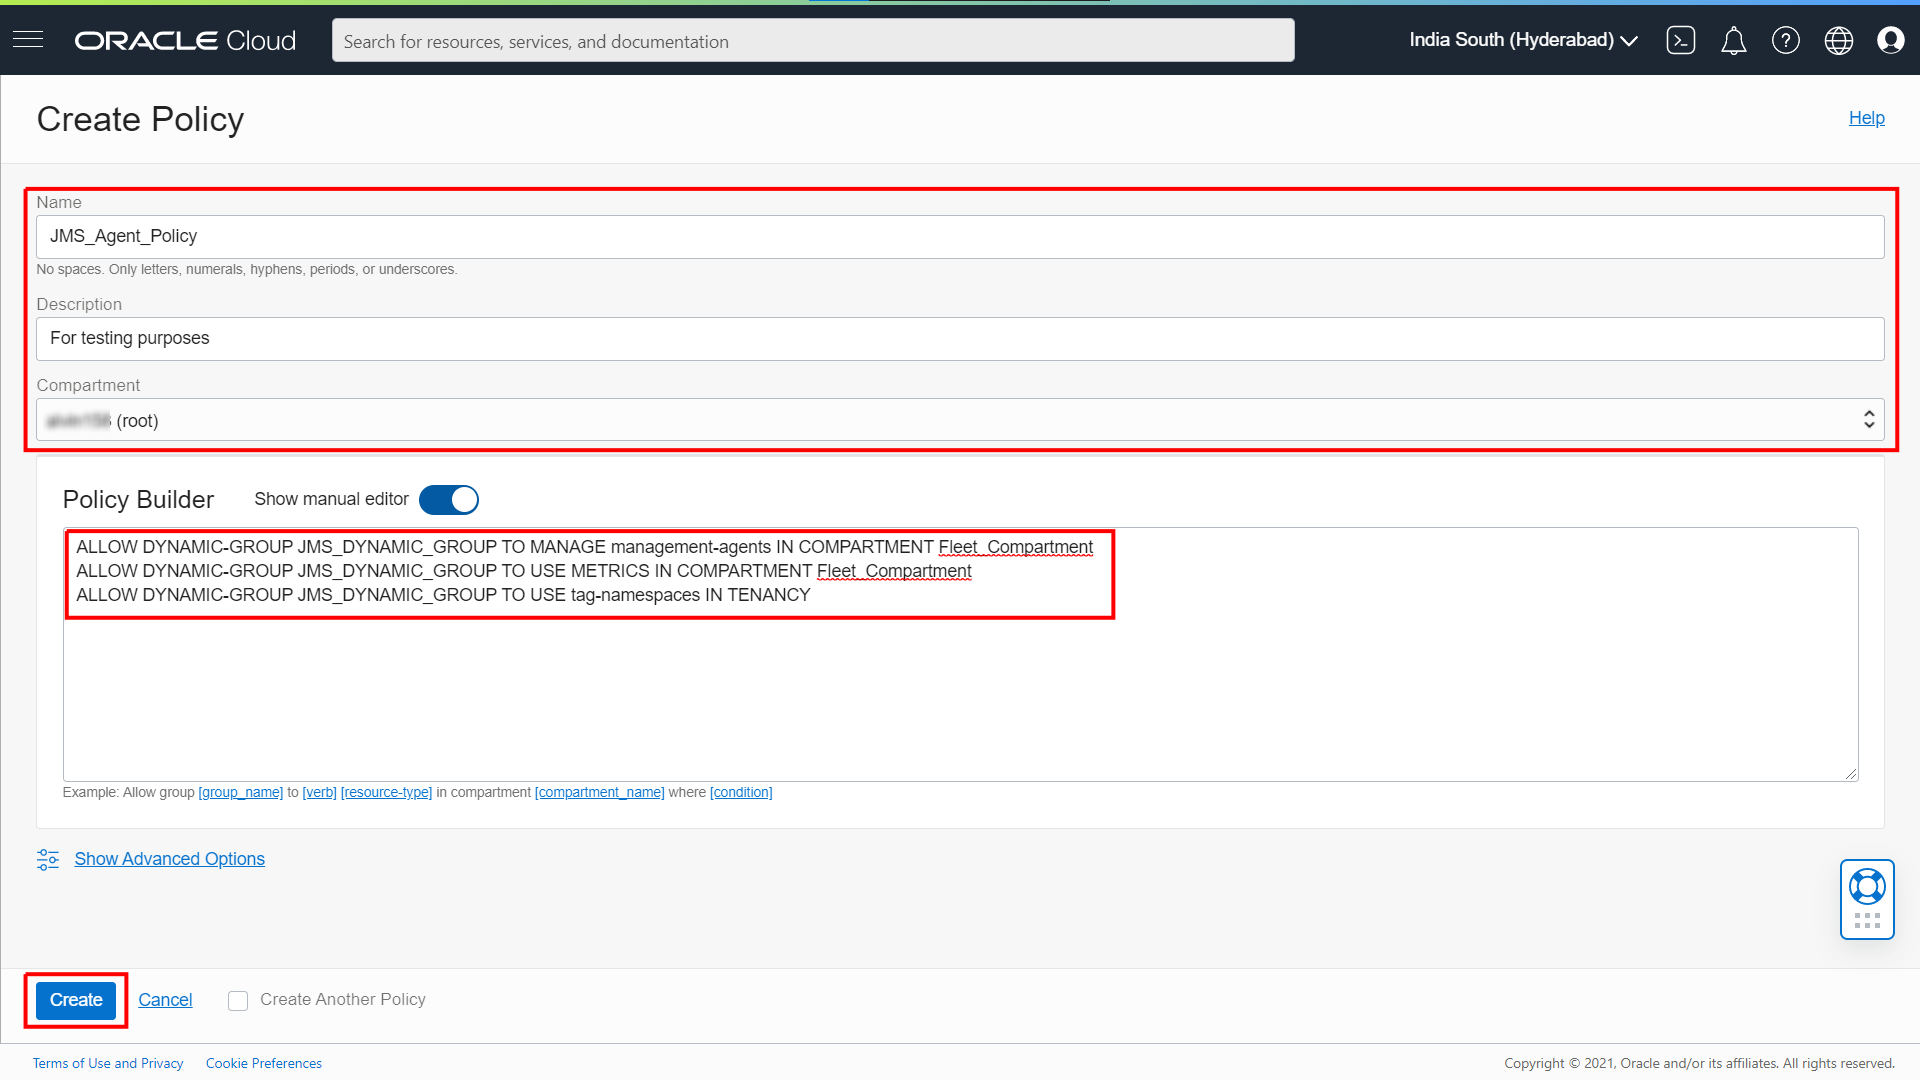
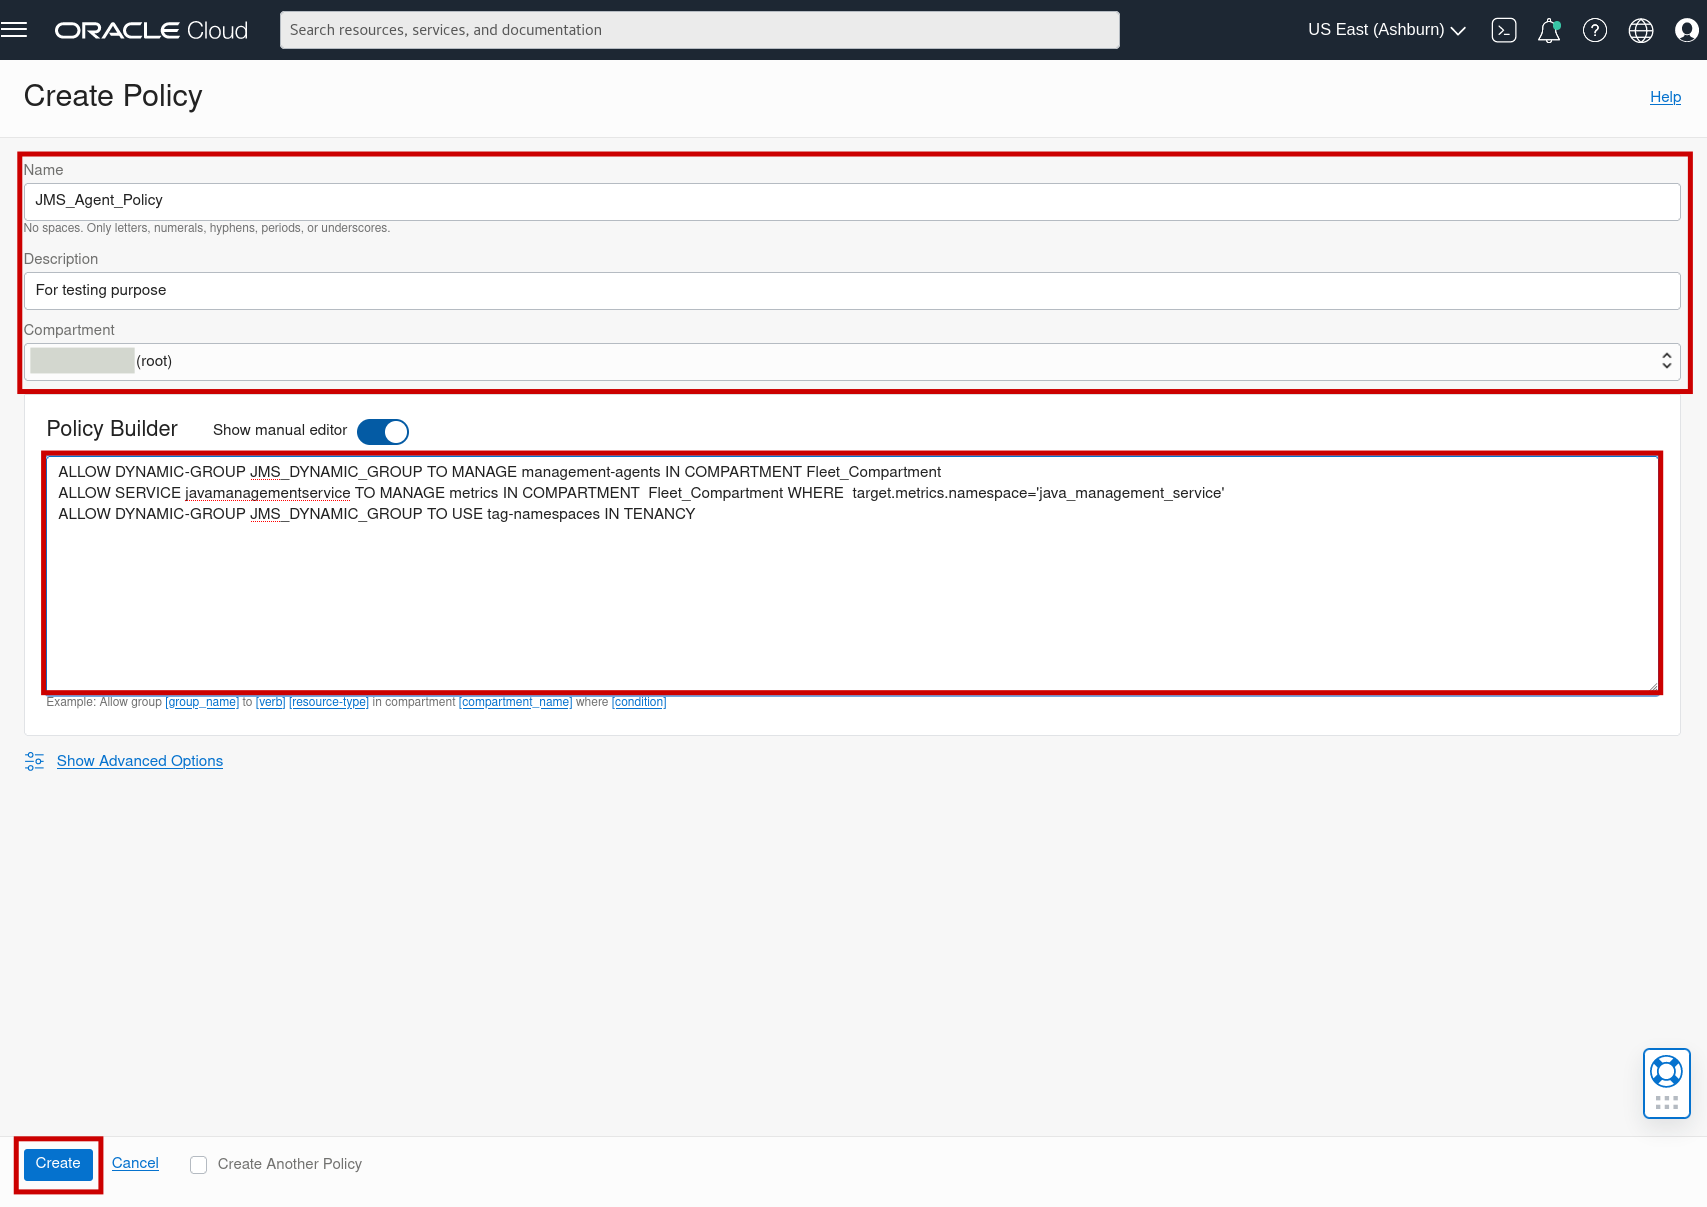
Updated and added new polices
Updated polices as per public docx https://docs.oracle.com/en-us/iaas/jms/doc/getting-started-java-management-service.html

Also updated the screenshops

diff --git a/oci-library/oci-hol/java-management/set-up-oci-for-jms/set-up-oci-for-jms.md b/oci-library/oci-hol/java-management/set-up-oci-for-jms/set-up-oci-for-jms.md
@@ -196,6 +196,8 @@ Sign in to the Oracle Cloud Console as an administrator using the credentials pr
         ALLOW GROUP FLEET_MANAGERS TO MANAGE management-agent-install-keys IN COMPARTMENT Fleet_Compartment
         ALLOW GROUP FLEET_MANAGERS TO READ METRICS IN COMPARTMENT Fleet_Compartment
         ALLOW GROUP FLEET_MANAGERS TO MANAGE tag-namespaces IN TENANCY
+        ALLOW GROUP FLEET_MANAGERS TO MANAGE instance-family IN COMPARTMENT Fleet_Compartment
+        ALLOW GROUP FLEET_MANAGERS TO READ instance-agent-plugins IN COMPARTMENT Fleet_Compartment
     </copy>
     ```
     ![image of policies create page](/../images/policies-create-example.png)
@@ -241,8 +243,8 @@ Sign in to the Oracle Cloud Console as an administrator using the credentials pr
     * In the text box, enter the following statements:
         ```
         <copy>
-        ALLOW DYNAMIC-GROUP JMS_DYNAMIC_GROUP TO MANAGE management-agents IN COMPARTMENT Fleet_Compartment
-        ALLOW DYNAMIC-GROUP JMS_DYNAMIC_GROUP TO USE METRICS IN COMPARTMENT Fleet_Compartment
+        ALLOW DYNAMIC-GROUP JMS_DYNAMIC_GROUP TO MANAGE management-agents IN COMPARTMENT Fleet_Compartment  
+        ALLOW SERVICE javamanagementservice TO MANAGE metrics IN COMPARTMENT  Fleet_Compartment WHERE  target.metrics.namespace='java_management_service' 
         ALLOW DYNAMIC-GROUP JMS_DYNAMIC_GROUP TO USE tag-namespaces IN TENANCY
         </copy>
         ```
@@ -250,7 +252,50 @@ Sign in to the Oracle Cloud Console as an administrator using the credentials pr
         &nbsp;
     * Click **Create**.
 
-    * You may now **proceed to the next lab**.
+
+9. Create Policies for JMS Logging.
+
+    These policies allows JMS to interact with OCI Logging service for setting up Log Configuration for fleets in the compartment.
+
+     * In the Oracle Cloud Console, open the navigation menu and click **Identity & Security**. Under **Identity**, click **Policies**.
+    * Click **Create Policy**.
+    * In the Create Policy dialog box, enter a name for the policy (for example, `JMS_Logging_Policy`), and a description.
+    * Select the root compartment for your tenancy from the drop-down list.
+    * Click **Show manual editor**.
+    * In the text box, enter the following statements:
+      ```
+        <copy>
+        ALLOW SERVICE javamanagementservice TO MANAGE log-groups IN COMPARTMENT Fleet_Compartment
+        ALLOW SERVICE javamanagementservice TO MANAGE log-content IN COMPARTMENT Fleet_Compartment
+        ALLOW DYNAMIC-GROUP JMS_DYNAMIC_GROUP TO MANAGE log-content IN COMPARTMENT Fleet_Compartment
+        </copy>
+        ```
+        ![image of create jms policy page](/../images/policies-logging-jms-create-example.png)
+        &nbsp;
+    * Click **Create**.
+
+
+10. Create Policies for Java Runtime Lifecycle Management Operations.
+
+     * In the Oracle Cloud Console, open the navigation menu and click **Identity & Security**. Under **Identity**, click **Policies**.
+    * Click **Create Policy**.
+    * In the Create Policy dialog box, enter a name for the policy (for example, `JMS_LCM_Policy`), and a description.
+    * Select the root compartment for your tenancy from the drop-down list.
+    * Click **Show manual editor**.
+    * In the text box, enter the following statements:
+      ```
+        <copy>
+        ALLOW SERVICE javamanagementservice TO READ instances IN tenancy
+        ALLOW SERVICE javamanagementservice TO INSPECT instance-agent-plugins IN tenancy
+        </copy>
+        ```
+        ![image of create jms policy page](/../images/policies-lcm-create-example.png)
+        &nbsp;
+    * Click **Create**.
+
+You may now **proceed to the next lab**.
+
+
 
 ## Want to Learn More?
 
